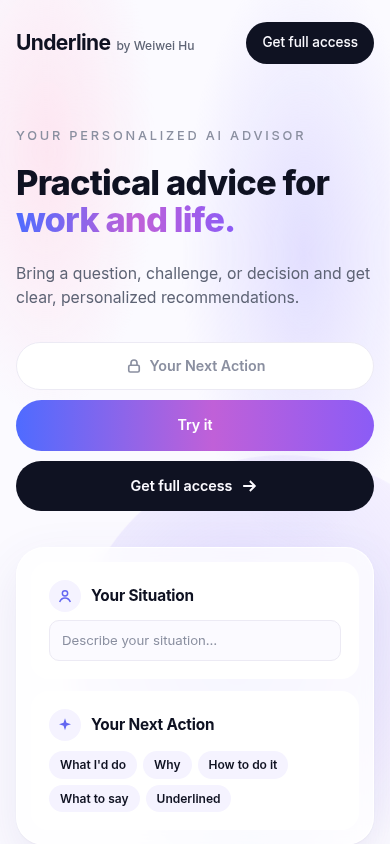
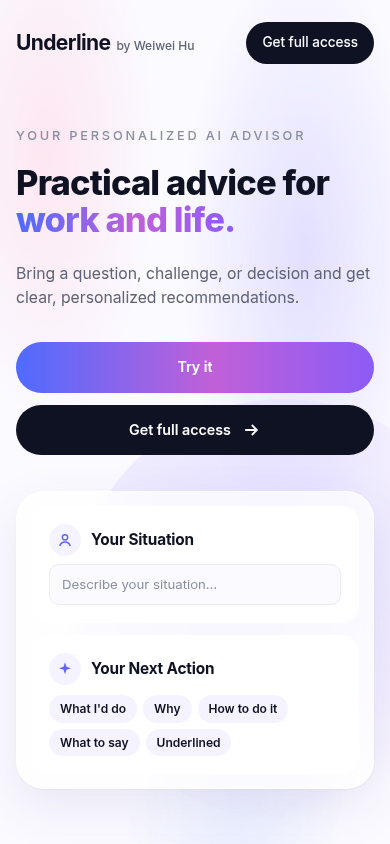
Hero: replace the locked Your Next Action button with Try it
Claude-Session: https://claude.ai/code/session_01N7N6w9NyR9iyFeuC71Pzud

diff --git a/index.html b/index.html
@@ -253,11 +253,9 @@ html{overflow-x:hidden}
 .lockcard .btn{margin:0 auto}
 .trybtn{background:var(--grad);color:#fff;border:0}
 .trybtn:hover{filter:brightness(1.08)}
-.hero .ctas .btn.big{width:auto!important;min-width:0;padding:14px 18px!important;font-size:15px;white-space:nowrap;flex:0 0 auto;gap:7px}
-.hero .ctas{flex-wrap:nowrap;gap:10px}
-.hero .ctas .trybtn{padding:14px 26px!important}
-@media (min-width:521px) and (max-width:1120px){.hero .ctas{gap:8px}.hero .ctas .btn.big{padding:12px 14px!important;font-size:14px}.hero .ctas .trybtn{padding:12px 20px!important}}
-@media (max-width:520px){.hero .ctas{flex-direction:column}.hero .ctas .btn.big{width:100%!important}}
+.hero .ctas .btn.big{min-width:0;flex:0 0 190px;width:190px!important;white-space:nowrap}
+.hero .ctas{flex-wrap:nowrap;gap:12px}
+@media (max-width:520px){.hero .ctas{flex-direction:column}.hero .ctas .btn.big{width:100%!important;flex:0 0 auto}}
 </style>
 
 <div class="wrap">
@@ -278,7 +276,6 @@ html{overflow-x:hidden}
       <h1>Practical advice for <span class="grad">work and life.</span></h1>
       <p class="lead">Bring a question, challenge, or decision and get clear, personalized recommendations.</p>
       <div class="ctas">
-        <button class="btn big lock" type="button" disabled aria-disabled="true"><svg viewBox="0 0 24 24" width="18" height="18" fill="none" stroke="currentColor" stroke-width="2.2" aria-hidden="true"><rect x="5" y="11" width="14" height="9" rx="2"/><path d="M8 11V8a4 4 0 0 1 8 0v3"/></svg>Your Next Action</button>
         <a class="btn big trybtn" href="#try">Try it</a>
         <a class="btn big dark" href="https://buy.stripe.com/cNi14nfzP6RKfkX9F2eQM00" target="_blank" rel="noopener">Get full access <svg viewBox="0 0 24 24" width="20" height="20" fill="none" stroke="currentColor" stroke-width="2.2" aria-hidden="true"><path d="M5 12h14M13 6l6 6-6 6"/></svg></a>
       </div>
